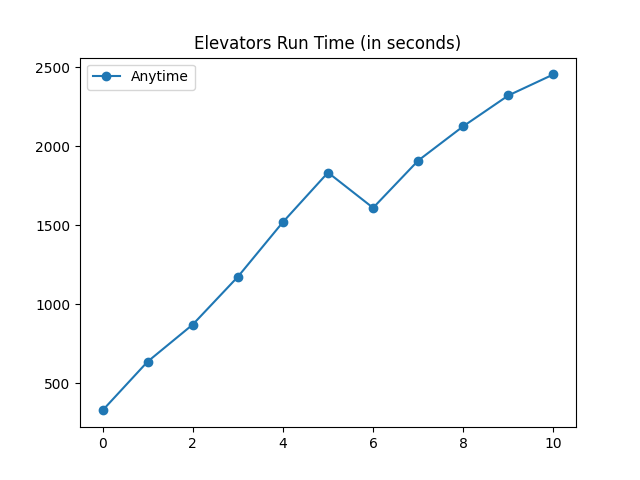
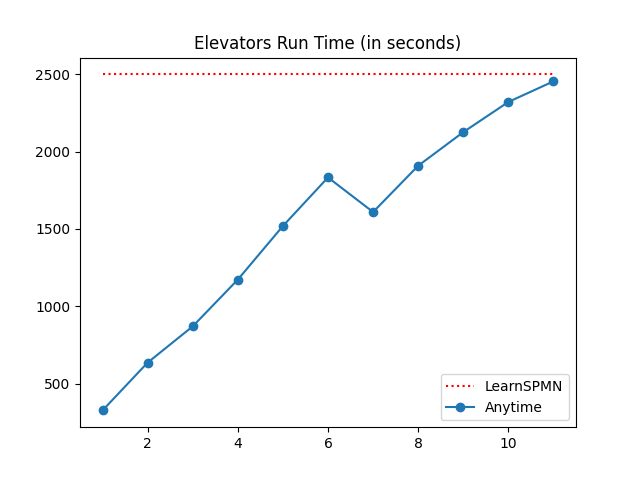
Results

diff --git a/src/plot.py b/src/plot.py
@@ -13,7 +13,7 @@ import pandas as pd
 from os import path as pth
 import sys, os
 import random
-
+from spn.data.domain_stats import get_original_stats, get_optimal_meu, get_random_policy_reward
 
 import matplotlib.pyplot as plt
 from os import path as pth
@@ -21,52 +21,81 @@ import sys, os
 
 
 datasets = ['Export_Textiles', 'Test_Strep', 'HIV_Screening', 'Computer_Diagnostician', 'Powerplant_Airpollution', 'LungCancer_Staging']
-dataset = 'Elevators'
+dataset = 'Navigation'
 path = "test"
-path = "latest_rewards"
+path = "new_results_depth"
 
 plot_path = f"{path}/{dataset}"
 
-reward = [-6, -6, -3.6100000000000003, -6.015, -5.26]
-dev = [0, 0, 3.1304791965448358, 2.6918441633943075, 1.8615584868598674]
+runtime = [145.29267168045044, 436.09778928756714, 891.3127875328064, 782.6671736240387, 1089.476714372635, 1329.4888541698456, 1294.7908515930176, 1529.7081279754639, 1747.1985025405884, 1898.2388129234314, 2076.967685699463]
+avg_ll = [-4.0880219823450314, -2.049680238096561, -1.3969299582391717, -1.3969299582391717, -1.3969299582391717, -1.3969299582391717, -0.25178044936277855, -0.25178044936277855, -0.25178044936277855, -0.25178044936277855, -0.25178044936277855]
+ll_dev= [0.09862152329505344, 0.07712501063510499, 0.04257641737421496, 0.04257641737421496, 0.04257641737421496, 0.04257641737421496, 0.031783895937702894, 0.031783895937702894, 0.031783895937702894, 0.031783895937702894, 0.031783895937702894]
+meus = [-4.776024118453267, -4.765703262088994, -4.396269763478818, -4.396269763478818, -4.396269763478818, -4.396269763478818, -3.120315581854044, -3.120315581854044, -3.120315581854044, -3.120315581854044, -3.120315581854044]
+nodes = [893, 4621, 12512, 12512, 12507, 12507, 17338, 17338, 17338, 17338, 17338]
+avg_rewards = [-4.887199999999999, -5.0, -5.0, -5.0, -5.0, -5.0, -3.104, -3.1033999999999997, -3.1043999999999996, -3.1042, -3.1033999999999997]
+reward_dev = [0.04472314836860214, 0.0, 0.0, 0.0, 0.0, 0.0, 0.040477154050155256, 0.040968768592673156, 0.041063852717444796, 0.04119660180160496, 0.04040841496520253]
+
+original_stats = get_original_stats(dataset)
+optimal_meu = get_optimal_meu(dataset)
+random_policy_reward = get_random_policy_reward(dataset)
 
 
 plt.close()
+
+
 '''
-rand_reward = np.array([random_reward[dataset]["reward"]]*len(avg_rewards))
-dev = np.array([random_reward[dataset]["dev"]]*len(avg_rewards))
-plt.fill_between(np.arange(len(avg_rewards)), rand_reward-dev, rand_reward+dev, alpha=0.1, color="lightgrey")
-plt.plot(rand_reward, linestyle="dashed", color ="grey", label="Random Policy")
-
-original_reward = np.array([original_stats[dataset]["reward"]]*len(avg_rewards))
-dev = np.array([original_stats[dataset]["dev"]]*len(avg_rewards))
-plt.fill_between(np.arange(len(avg_rewards)), original_reward-dev, original_reward+dev, alpha=0.3, color="red")
-plt.plot([optimal_meu[dataset]]*len(avg_rewards), linewidth=3, color ="lime", label="Optimal MEU")
-plt.plot(original_reward, linestyle="dashed", color ="red", label="LearnSPMN")
-
-plt.errorbar(np.arange(len(avg_rewards)), avg_rewards, yerr=reward_dev, marker="o", label="Anytime1")
-
-plt.errorbar(np.arange(len(avg_rewards1)), avg_rewards1, yerr=reward_dev1, marker="o", label="Anytime1")
-plt.errorbar(np.arange(len(avg_rewards2)), avg_rewards2, yerr=reward_dev2, marker="o", label="Anytime2")
-plt.errorbar(np.arange(len(avg_rewards3)), avg_rewards3, yerr=reward_dev3, marker="o", label="Anytime3")
-
-mean_rewards = [0]*len(avg_rewards1)
-for i in range(len(mean_rewards)):
-	mean_rewards[i] = (avg_rewards1[i] + avg_rewards2[i] + avg_rewards3[i]) / 3
-plt.plot(mean_rewards, marker="o", color ="black", label="Anytime mean")
-
-
-plt.title(f"{dataset} Average Rewards")
-plt.legend()
-plt.savefig(f"{plot_path}/rewards_final.png", dpi=100)
-plt.close()
-'''
-
-
 plt.close()
 plt.errorbar(np.arange(len(reward)), reward, yerr=dev, marker="o", label="Anytime")
 plt.title(f"{dataset} Average Rewards")
 plt.legend()
 plt.savefig(f"{plot_path}/rewards.png", dpi=100)
 plt.close()
+'''
 
+plt.close()
+plt.plot(range(1,len(runtime)+1), [original_stats["runtime"]]*len(runtime), linestyle="dotted", color ="red", label="LearnSPMN")
+plt.plot(range(1,len(runtime)+1), runtime, marker="o", label="Anytime")
+plt.title(f"{dataset} Run Time (in seconds)")
+plt.legend()
+plt.savefig(f"{plot_path}/runtime.png", dpi=100)
+plt.close()
+
+plt.close()
+plt.plot(range(1,len(avg_ll)+1), [original_stats["ll"]]*len(avg_ll), linestyle="dotted", color ="red", label="LearnSPMN")
+plt.errorbar(range(1,len(avg_ll)+1), avg_ll, yerr=ll_dev, marker="o", label="Anytime")
+plt.title(f"{dataset} Log Likelihood")
+plt.legend()
+plt.savefig(f"{plot_path}/ll.png", dpi=100)
+plt.close()
+
+plt.plot(range(1,len(meus)+1), meus, marker="o", label="Anytime")
+plt.plot(range(1,len(meus)+1), [optimal_meu]*len(meus), linewidth=3, color ="lime", label="Optimal MEU")
+plt.plot(range(1,len(meus)+1), [original_stats["meu"]]*len(meus), linestyle="dotted", color ="red", label="LearnSPMN")
+plt.title(f"{dataset} MEU")
+plt.legend()
+plt.savefig(f"{plot_path}/meu.png", dpi=100)
+plt.close()
+
+plt.plot(range(1,len(nodes)+1), nodes, marker="o", label="Anytime")
+plt.plot(range(1,len(nodes)+1), [original_stats["nodes"]]*len(nodes), linestyle="dotted", color ="red", label="LearnSPMN")
+plt.title(f"{dataset} Nodes")
+plt.legend()
+plt.savefig(f"{plot_path}/nodes.png", dpi=100)
+plt.close()
+
+rand_reward = np.array([random_policy_reward["reward"]]*len(avg_rewards))
+dev = np.array([random_policy_reward["dev"]]*len(avg_rewards))
+plt.fill_between(range(1,len(avg_rewards)+1),  rand_reward-dev, rand_reward+dev, alpha=0.1, color="lightgrey")
+plt.plot(range(1,len(avg_rewards)+1), rand_reward, linestyle="dashed", color ="grey", label="Random Policy")
+
+original_reward = np.array([original_stats["reward"]]*len(avg_rewards))
+dev = np.array([original_stats["dev"]]*len(avg_rewards))
+plt.fill_between(range(1,len(avg_rewards)+1), original_reward-dev, original_reward+dev, alpha=0.3, color="red")
+plt.plot(range(1,len(avg_rewards)+1), [optimal_meu]*len(avg_rewards), linewidth=3, color ="lime", label="Optimal MEU")
+plt.plot(range(1,len(avg_rewards)+1), original_reward, linestyle="dashed", color ="red", label="LearnSPMN")
+
+plt.errorbar(range(1,len(avg_rewards)+1), avg_rewards, yerr=reward_dev, marker="o", label="Anytime")
+plt.title(f"{dataset} Average Rewards")
+plt.legend()
+plt.savefig(f"{plot_path}/rewards.png", dpi=100)
+plt.close()

diff --git a/src/learnaspmn.py b/src/learnaspmn.py
@@ -88,29 +88,31 @@ for dataset in datasets:
 		# plot the statistics
 
 		plt.close()
-		plt.plot(runtime, marker="o", label="Anytime")
+		plt.plot(range(1,len(runtime)+1), [original_stats["runtime"]]*len(runtime), linestyle="dotted", color ="red", label="LearnSPMN")
+		plt.plot(range(1,len(runtime)+1), runtime, marker="o", label="Anytime")
 		plt.title(f"{dataset} Run Time (in seconds)")
 		plt.legend()
 		plt.savefig(f"{plot_path}/runtime.png", dpi=100)
 		plt.close()
-		
-		plt.plot([original_stats["ll"]]*len(avg_ll), linestyle="dotted", color ="red", label="LearnSPMN")
-		plt.errorbar(np.arange(len(avg_ll)), avg_ll, yerr=ll_dev, marker="o", label="Anytime")
+
+		plt.close()
+		plt.plot(range(1,len(avg_ll)+1), [original_stats["ll"]]*len(avg_ll), linestyle="dotted", color ="red", label="LearnSPMN")
+		plt.errorbar(range(1,len(avg_ll)+1), avg_ll, yerr=ll_dev, marker="o", label="Anytime")
 		plt.title(f"{dataset} Log Likelihood")
 		plt.legend()
 		plt.savefig(f"{plot_path}/ll.png", dpi=100)
 		plt.close()
-		
-		plt.plot(meus, marker="o", label="Anytime")
-		plt.plot([optimal_meu]*len(meus), linewidth=3, color ="lime", label="Optimal MEU")
-		plt.plot([original_stats["meu"]]*len(meus), linestyle="dotted", color ="red", label="LearnSPMN")
+
+		plt.plot(range(1,len(meus)+1), meus, marker="o", label="Anytime")
+		plt.plot(range(1,len(meus)+1), [optimal_meu]*len(meus), linewidth=3, color ="lime", label="Optimal MEU")
+		plt.plot(range(1,len(meus)+1), [original_stats["meu"]]*len(meus), linestyle="dotted", color ="red", label="LearnSPMN")
 		plt.title(f"{dataset} MEU")
 		plt.legend()
 		plt.savefig(f"{plot_path}/meu.png", dpi=100)
 		plt.close()
 
-		plt.plot(nodes, marker="o", label="Anytime")
-		plt.plot([original_stats["nodes"]]*len(nodes), linestyle="dotted", color ="red", label="LearnSPMN")
+		plt.plot(range(1,len(nodes)+1), nodes, marker="o", label="Anytime")
+		plt.plot(range(1,len(nodes)+1), [original_stats["nodes"]]*len(nodes), linestyle="dotted", color ="red", label="LearnSPMN")
 		plt.title(f"{dataset} Nodes")
 		plt.legend()
 		plt.savefig(f"{plot_path}/nodes.png", dpi=100)
@@ -119,16 +121,16 @@ for dataset in datasets:
 		
 		rand_reward = np.array([random_policy_reward["reward"]]*len(avg_rewards))
 		dev = np.array([random_policy_reward["dev"]]*len(avg_rewards))
-		plt.fill_between(np.arange(len(avg_rewards)), rand_reward-dev, rand_reward+dev, alpha=0.1, color="lightgrey")
-		plt.plot(rand_reward, linestyle="dashed", color ="grey", label="Random Policy")
+		plt.fill_between(range(1,len(avg_rewards)+1),  rand_reward-dev, rand_reward+dev, alpha=0.1, color="lightgrey")
+		plt.plot(range(1,len(avg_rewards)+1), rand_reward, linestyle="dashed", color ="grey", label="Random Policy")
 
 		original_reward = np.array([original_stats["reward"]]*len(avg_rewards))
 		dev = np.array([original_stats["dev"]]*len(avg_rewards))
-		plt.fill_between(np.arange(len(avg_rewards)), original_reward-dev, original_reward+dev, alpha=0.3, color="red")
-		plt.plot([optimal_meu]*len(avg_rewards), linewidth=3, color ="lime", label="Optimal MEU")
-		plt.plot(original_reward, linestyle="dashed", color ="red", label="LearnSPMN")
+		plt.fill_between(range(1,len(avg_rewards)+1), original_reward-dev, original_reward+dev, alpha=0.3, color="red")
+		plt.plot(range(1,len(avg_rewards)+1), [optimal_meu]*len(avg_rewards), linewidth=3, color ="lime", label="Optimal MEU")
+		plt.plot(range(1,len(avg_rewards)+1), original_reward, linestyle="dashed", color ="red", label="LearnSPMN")
 
-		plt.errorbar(np.arange(len(avg_rewards)), avg_rewards, yerr=reward_dev, marker="o", label="Anytime")
+		plt.errorbar(range(1,len(avg_rewards)+1), avg_rewards, yerr=reward_dev, marker="o", label="Anytime")
 		plt.title(f"{dataset} Average Rewards")
 		plt.legend()
 		plt.savefig(f"{plot_path}/rewards.png", dpi=100)

diff --git a/src/learnaspmn3.py b/src/learnaspmn3.py
@@ -88,30 +88,31 @@ for dataset in datasets:
 		# plot the statistics
 
 		plt.close()
-		plt.plot(runtime, marker="o", label="Anytime")
+		plt.plot(range(1,len(runtime)+1), [original_stats["runtime"]]*len(runtime), linestyle="dotted", color ="red", label="LearnSPMN")
+		plt.plot(range(1,len(runtime)+1), runtime, marker="o", label="Anytime")
 		plt.title(f"{dataset} Run Time (in seconds)")
 		plt.legend()
 		plt.savefig(f"{plot_path}/runtime.png", dpi=100)
 		plt.close()
 
 		plt.close()
-		plt.plot([original_stats["ll"]]*len(avg_ll), linestyle="dotted", color ="red", label="LearnSPMN")
-		plt.errorbar(np.arange(len(avg_ll)), avg_ll, yerr=ll_dev, marker="o", label="Anytime")
+		plt.plot(range(1,len(avg_ll)+1), [original_stats["ll"]]*len(avg_ll), linestyle="dotted", color ="red", label="LearnSPMN")
+		plt.errorbar(range(1,len(avg_ll)+1), avg_ll, yerr=ll_dev, marker="o", label="Anytime")
 		plt.title(f"{dataset} Log Likelihood")
 		plt.legend()
 		plt.savefig(f"{plot_path}/ll.png", dpi=100)
 		plt.close()
-		
-		plt.plot(meus, marker="o", label="Anytime")
-		plt.plot([optimal_meu]*len(meus), linewidth=3, color ="lime", label="Optimal MEU")
-		plt.plot([original_stats["meu"]]*len(meus), linestyle="dotted", color ="red", label="LearnSPMN")
+
+		plt.plot(range(1,len(meus)+1), meus, marker="o", label="Anytime")
+		plt.plot(range(1,len(meus)+1), [optimal_meu]*len(meus), linewidth=3, color ="lime", label="Optimal MEU")
+		plt.plot(range(1,len(meus)+1), [original_stats["meu"]]*len(meus), linestyle="dotted", color ="red", label="LearnSPMN")
 		plt.title(f"{dataset} MEU")
 		plt.legend()
 		plt.savefig(f"{plot_path}/meu.png", dpi=100)
 		plt.close()
 
-		plt.plot(nodes, marker="o", label="Anytime")
-		plt.plot([original_stats["nodes"]]*len(nodes), linestyle="dotted", color ="red", label="LearnSPMN")
+		plt.plot(range(1,len(nodes)+1), nodes, marker="o", label="Anytime")
+		plt.plot(range(1,len(nodes)+1), [original_stats["nodes"]]*len(nodes), linestyle="dotted", color ="red", label="LearnSPMN")
 		plt.title(f"{dataset} Nodes")
 		plt.legend()
 		plt.savefig(f"{plot_path}/nodes.png", dpi=100)
@@ -120,16 +121,16 @@ for dataset in datasets:
 		
 		rand_reward = np.array([random_policy_reward["reward"]]*len(avg_rewards))
 		dev = np.array([random_policy_reward["dev"]]*len(avg_rewards))
-		plt.fill_between(np.arange(len(avg_rewards)), rand_reward-dev, rand_reward+dev, alpha=0.1, color="lightgrey")
-		plt.plot(rand_reward, linestyle="dashed", color ="grey", label="Random Policy")
+		plt.fill_between(range(1,len(avg_rewards)+1),  rand_reward-dev, rand_reward+dev, alpha=0.1, color="lightgrey")
+		plt.plot(range(1,len(avg_rewards)+1), rand_reward, linestyle="dashed", color ="grey", label="Random Policy")
 
 		original_reward = np.array([original_stats["reward"]]*len(avg_rewards))
 		dev = np.array([original_stats["dev"]]*len(avg_rewards))
-		plt.fill_between(np.arange(len(avg_rewards)), original_reward-dev, original_reward+dev, alpha=0.3, color="red")
-		plt.plot([optimal_meu]*len(avg_rewards), linewidth=3, color ="lime", label="Optimal MEU")
-		plt.plot(original_reward, linestyle="dashed", color ="red", label="LearnSPMN")
+		plt.fill_between(range(1,len(avg_rewards)+1), original_reward-dev, original_reward+dev, alpha=0.3, color="red")
+		plt.plot(range(1,len(avg_rewards)+1), [optimal_meu]*len(avg_rewards), linewidth=3, color ="lime", label="Optimal MEU")
+		plt.plot(range(1,len(avg_rewards)+1), original_reward, linestyle="dashed", color ="red", label="LearnSPMN")
 
-		plt.errorbar(np.arange(len(avg_rewards)), avg_rewards, yerr=reward_dev, marker="o", label="Anytime")
+		plt.errorbar(range(1,len(avg_rewards)+1), avg_rewards, yerr=reward_dev, marker="o", label="Anytime")
 		plt.title(f"{dataset} Average Rewards")
 		plt.legend()
 		plt.savefig(f"{plot_path}/rewards.png", dpi=100)

diff --git a/src/learnaspmn2.py b/src/learnaspmn2.py
@@ -97,58 +97,35 @@ for dataset in datasets:
 		# plot the statistics
 
 		plt.close()
-		plt.plot(runtime, marker="o", label="Anytime")
+		#plt.plot(range(1,len(runtime)+1), [original_stats["runtime"]]*len(runtime), linestyle="dotted", color ="red", label="LearnSPMN")
+		plt.plot(range(1,len(runtime)+1), runtime, marker="o", label="Anytime")
 		plt.title(f"{dataset} Run Time (in seconds)")
 		plt.legend()
 		plt.savefig(f"{plot_path}/runtime.png", dpi=100)
 		plt.close()
 
 		plt.close()
-		plt.errorbar(np.arange(len(avg_ll)), avg_ll, yerr=ll_dev, marker="o", label="Anytime")
+		#plt.plot(range(1,len(avg_ll)+1), [original_stats["ll"]]*len(avg_ll), linestyle="dotted", color ="red", label="LearnSPMN")
+		plt.errorbar(range(1,len(avg_ll)+1), avg_ll, yerr=ll_dev, marker="o", label="Anytime")
 		plt.title(f"{dataset} Log Likelihood")
 		plt.legend()
 		plt.savefig(f"{plot_path}/ll.png", dpi=100)
 		plt.close()
-		
-		plt.plot(meus, marker="o", label="Anytime")
+
+		plt.plot(range(1,len(meus)+1), meus, marker="o", label="Anytime")
+		#plt.plot(range(1,len(meus)+1), [optimal_meu]*len(meus), linewidth=3, color ="lime", label="Optimal MEU")
+		#plt.plot(range(1,len(meus)+1), [original_stats["meu"]]*len(meus), linestyle="dotted", color ="red", label="LearnSPMN")
 		plt.title(f"{dataset} MEU")
 		plt.legend()
 		plt.savefig(f"{plot_path}/meu.png", dpi=100)
 		plt.close()
 
-		plt.plot(nodes, marker="o", label="Anytime")
+		plt.plot(range(1,len(nodes)+1), nodes, marker="o", label="Anytime")
+		#plt.plot(range(1,len(nodes)+1), [original_stats["nodes"]]*len(nodes), linestyle="dotted", color ="red", label="LearnSPMN")
 		plt.title(f"{dataset} Nodes")
 		plt.legend()
 		plt.savefig(f"{plot_path}/nodes.png", dpi=100)
 		plt.close()
-
-		'''
-		#Get stats
-		all_runtime = stats["runtime"]
-		f = open(f"{plot_path}/stats.txt", "a")
-		f.write(f"\n\tRuntime : {all_runtime}")
-		f.close()
-
-		#Get stats
-		all_nodes.append(aspmn.evaluate_nodes(spmn))
-		f = open(f"{plot_path}/stats.txt", "a")
-		f.write(f"\n\tNodes : {all_nodes}")
-		f.close()
-
-		all_meus.append(aspmn.evaluate_meu(spmn))
-		f = open(f"{plot_path}/stats.txt", "a")
-		f.write(f"\n\tMEU : {all_meus}")
-		f.close()
-
-		
-		avg_ll, ll_dev = aspmn.evaluate_loglikelihood_sequential(test, spmn)
-		all_avg_ll.append(avg_ll)
-		all_ll_dev.append(ll_dev)
-		f = open(f"{plot_path}/stats.txt", "a")
-		f.write(f"\n\tLog Likelihood : {all_avg_ll}")
-		f.write(f"\n\tLog Likelihood Deviation: {all_ll_dev}")
-		f.close()
-		'''
 
 
 		

diff --git a/src/spn/data/domain_stats.py b/src/spn/data/domain_stats.py
@@ -7,8 +7,8 @@ original_stats = {
 	'HIV_Screening': {"ll" : -0.6276399171508842, "meu" : 42.582734183407034, 'nodes' : 112, 'reward':42.559788119992646, 'dev':0.06067708771159484},
 	'Computer_Diagnostician': {"ll" : -0.9011245432112749, "meu" : -208.351, 'nodes' : 56, 'reward':-210.15520000000004, 'dev':0.3810022440878799},
 	'Powerplant_Airpollution': {"ll" : -1.0796885930912947, "meu" : -2756263.244346315, 'nodes' : 38, 'reward':-2759870.4, 'dev':6825.630813338794},
-	'Navigation': {"ll" : -0.24199351938969704, "meu" : -3.120315581854044, 'nodes' : 17338, 'reward':-3.1046000000000005, 'dev':0.042266298631415615},
-	'Elevators': {"ll" : 0, "meu" : 0.5, 'nodes' : 38227, 'reward':None, 'dev':None},
+	'Navigation': {"ll" : -0.24199351938969704, "meu" : -3.120315581854044, 'nodes' : 17338, 'reward':-3.1046000000000005, 'dev':0.042266298631415615, 'runtime':3610.374293088913},
+	'Elevators': {"ll" : 0, "meu" : 0.5, 'nodes' : 38227, 'reward':None, 'dev':None, 'runtime':2499.035037279129},
 }
 
 #Optimal MEU values from the IDs
@@ -32,7 +32,7 @@ random_reward = {
 	'Test_Strep': {'reward': 54.89614493400057, 'dev':0.012847272731391593},
 	'LungCancer_Staging': {'reward': 2.672070640000026, 'dev':0.007416967451081523},
 	'Navigation': {'reward': -4.941799999999999, 'dev':0.018664404624846833},
-	'Elevators': {'reward' -6.129405499999999: , 'dev':0.006561652878657956},
+	'Elevators': {'reward': -6.129405499999999 , 'dev':0.006561652878657956},
 }
 
 def get_original_stats(dataset):
